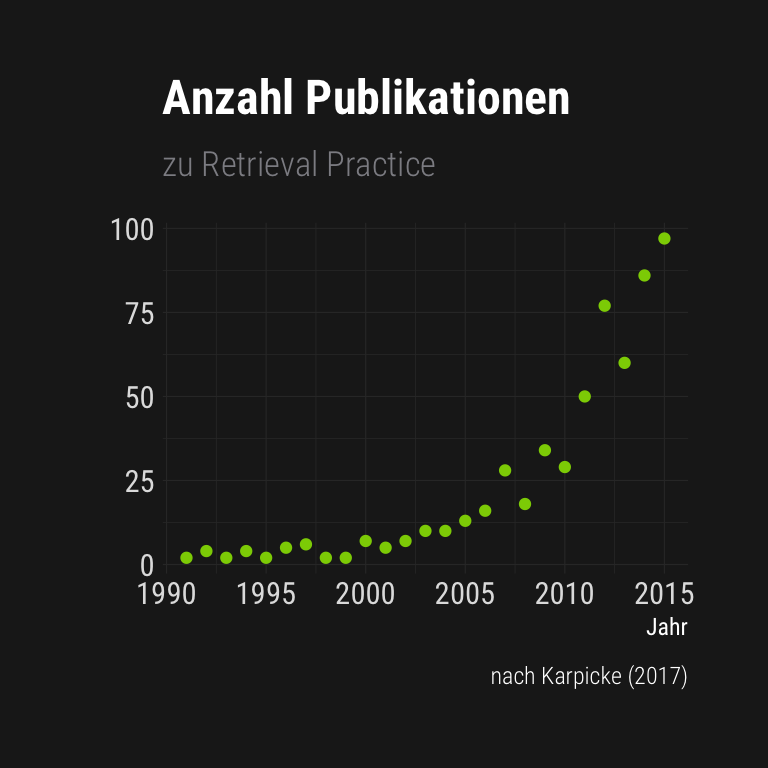
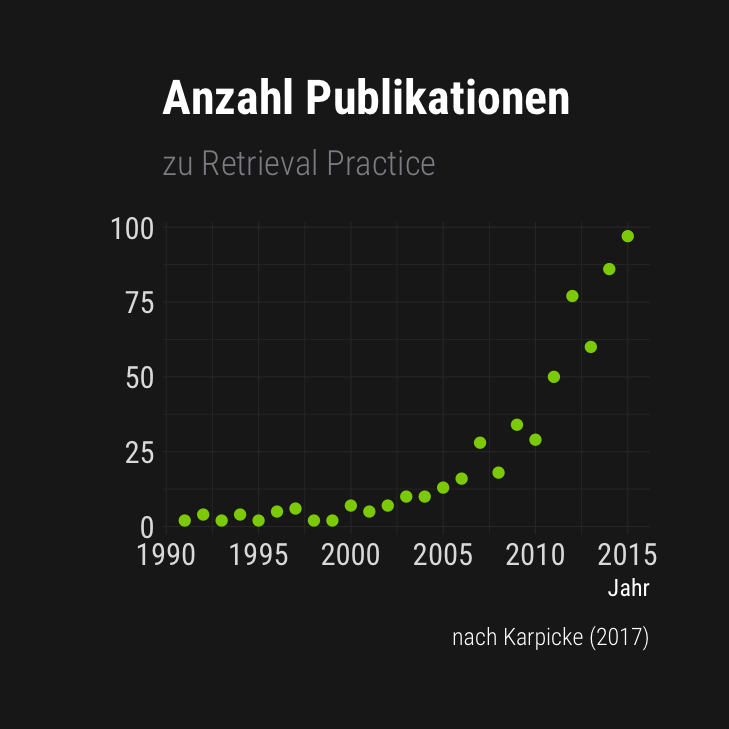
praefin2

diff --git a/index.html b/index.html
@@ -394,14 +394,14 @@ Samuel Merk
 <section id="testing-effect-fa-bullseye" class="slide level2 smaller center">
 <h2>Testing Effect <span class="imp"><i class="fa-solid fa-bullseye" aria-label="bullseye"></i></span></h2>
 <blockquote>
-<p>[…] retrieval practice […] can more effectively consolidate long-term retention of studied information […] and facilitate mastery of new information […] by comparison with other strategies […] <span class="citation" data-cites="yang2021">(<a href="#/literatur" role="doc-biblioref" onclick="">Yang, Luo, Vadillo, Yu, &amp; Shanks, 2021</a>)</span>.</p>
+<p>[…] retrieval practice […] can more effectively consolidate long-term retention of studied information […] and facilitate mastery of new information […] by comparison with other strategies […]. This phenomenon is termed the testing effect […] <span class="citation" data-cites="yang2021">(<a href="#/literatur" role="doc-biblioref" onclick="">Yang, Luo, Vadillo, Yu, &amp; Shanks, 2021</a>)</span>.</p>
 </blockquote>
 <div class="fragment">
 <div class="columns">
 <div class="column" style="width:50%;">
 <div class="cell">
 <div class="cell-output-display">
-<p><img data-src="index_files/figure-revealjs/unnamed-chunk-1-1.png" width="384"></p>
+<p><img data-src="index_files/figure-revealjs/unnamed-chunk-1-1.png" width="364"></p>
 </div>
 </div>
 </div><div class="column" style="width:50%;">
